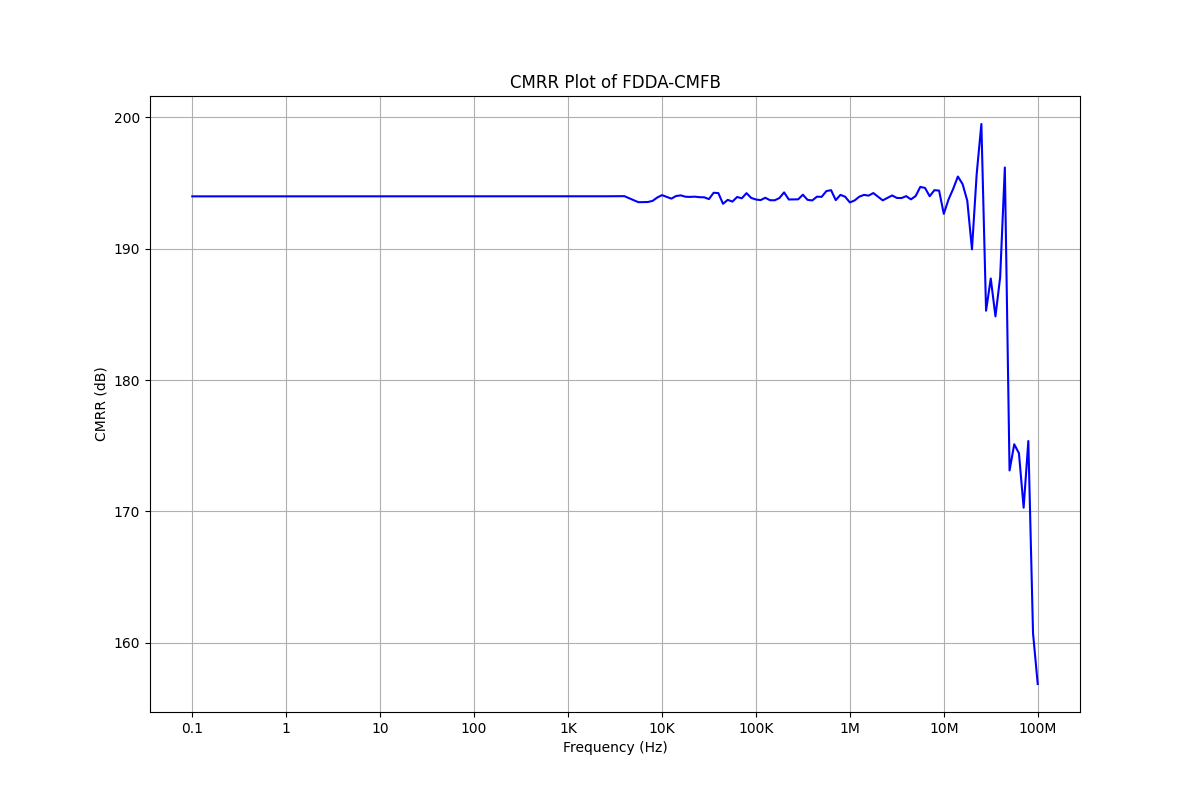
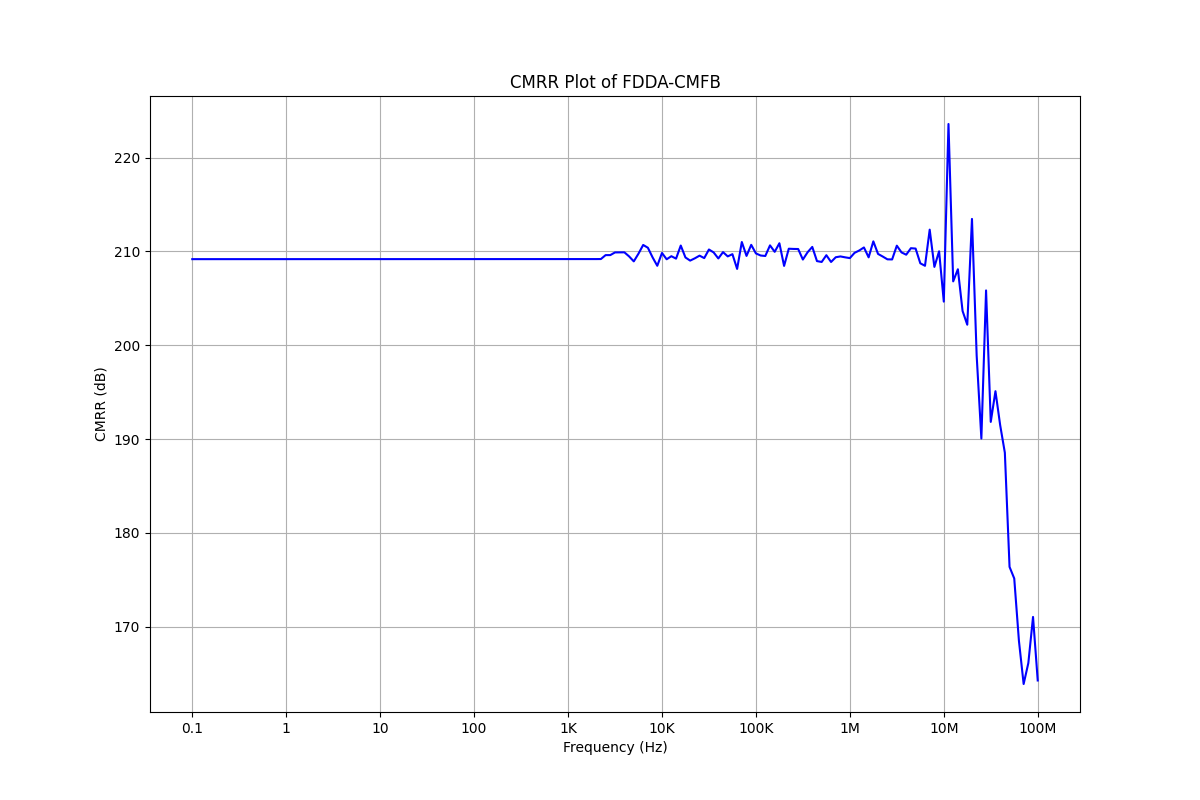
FDDA 10p 15i (72dB)

diff --git a/Complete Framework/FDDA_CMFB/specs.py b/Complete Framework/FDDA_CMFB/specs.py
@@ -18,14 +18,14 @@ M = 4              # Current Ratio (I_T:I_X)
 # FDDA and CMFB design specifications
 # ===================================
 Vicm_spec = (0.8, 1.0)                    # Input Common Mode Range (V)
-Gain_dc_spec_dB = 70                      # DC Gain (dB)
+Gain_dc_spec_dB = 72                      # DC Gain (dB)
 GBW_spec = 1e6                            # Gain Bandwidth (Hz)
 PM_spec = 60                              # Phase Margin (degrees)
 SR_spec = 1e6                             # Slew Rate (V/s)
 CMRR_spec_dB = 120                        # Common Mode Rejection Ratio (dB)
 PSRR_spec_dB = 60                         # Power Supply Rejection Ratio (dB)
 # noise_spec = 0.05e-6                      # Input Referred Noise (V/√Hz)
-Power_spec = 40e-6                       # Power Consumption (W)
+Power_spec = 40e-6                        # Power Consumption (W)
 Area_spec = 5000                          # Area (μm^2)
 
 Gain_dc_spec = 10**(Gain_dc_spec_dB/20)   # Convert dB to V/V
@@ -42,11 +42,11 @@ MAX_VELOCITY_UPDATES = 5
 # =========================
 # Range of sizing variables
 # =========================
-gm_ID_1_range = (18.4, 20.4)
-gm_ID_2_range = (12.2, 14.2)
-gm_ID_3_range = (11.4, 13.4)
-gm_ID_4_range = (11.8, 13.8)
-gm_ID_5_range = (11.5, 13.5)
-gm_ID_6_range = (11.7, 13.7)
+gm_ID_1_range = (18, 21)
+gm_ID_2_range = (13, 15)
+gm_ID_3_range = (12, 14)
+gm_ID_4_range = (12, 14)
+gm_ID_5_range = (11, 13)
+gm_ID_6_range = (11, 13)
 L_DISCRETE_VALUES = np.array([0.15, 0.16, 0.17, 0.18, 0.19, 0.20, 0.30, 0.40,
                               0.50, 0.60, 0.70, 0.80, 0.90, 1.00, 2.00, 3.00])

diff --git a/Complete Framework/FDDA_CMFB/particle_generation.py b/Complete Framework/FDDA_CMFB/particle_generation.py
@@ -78,6 +78,8 @@ def generate_initial_particle(cont_bounds, n_L_values, max_attempts=50000):
             sim_passed = False
         
         if sim_passed:
+            print(f"\ngm_ID_1: {gm_ID_1:.2f}, gm_ID_2: {gm_ID_2:.2f}, gm_ID_3: {gm_ID_3:.2f}, gm_ID_4: {gm_ID_4:.2f}, gm_ID_5: {gm_ID_5:.2f}, gm_ID_6: {gm_ID_6:.2f}, I_T: {I_T*1e6:.2f} μA")
+            print(f"Gain: {meas['Gain_dB']:.2f} dB, GBW: {meas['GBW']*1e-6:.2f} MHz, PM: {meas['PM']:.2f} degrees, SR: {meas['SR']*1e-6:.2f} V/μs, CMRR: {meas['CMRR_dB']:.2f} dB, PSRR: {meas['PSRR_dB']:.2f} dB, Power: {meas['Power']*1e6:.2f} μW")
             return particle, area, meas
             
     return None, np.inf, None

diff --git a/Complete Framework/FDDA_CMFB/gmID_sizing.py b/Complete Framework/FDDA_CMFB/gmID_sizing.py
@@ -218,7 +218,7 @@ def get_specVars(gm_ID, L, V_A, V_B, I_T):
 def get_feasRegion(L_discrete_values):
 
     # Minimum current calculations based on slew rate
-    I_T_min = SR_spec * (1.2 * CL)
+    I_T_min = SR_spec * (2 * CL)
     # Maximum current calculations based on power budget
     I_T_max = Power_spec / VDD / (4 * (1 + (1 / M)))
 
